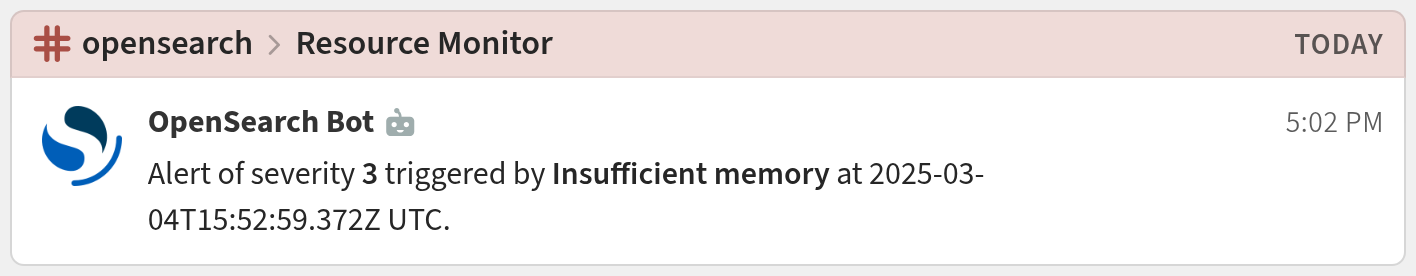
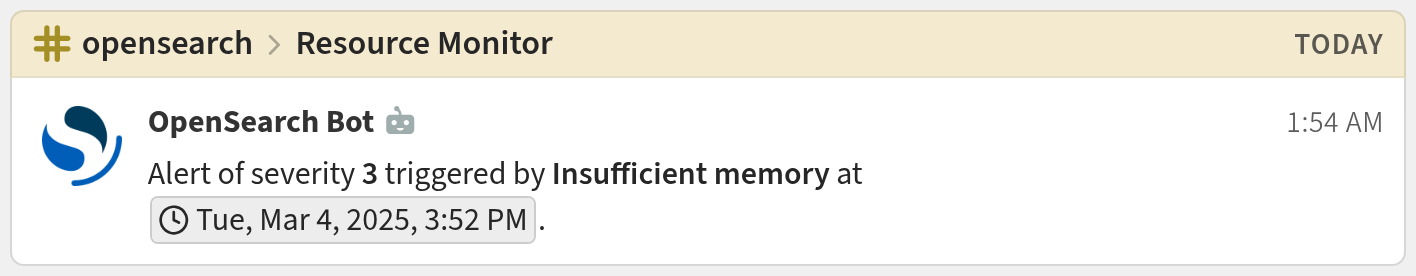
integrations/opensearch: Use global time.
Updated the fixtures as OpenSearch sends text payloads in the template
given by the user.
Updated the doc to suggest using global time in the example template.

diff --git a/zerver/webhooks/opensearch/tests.py b/zerver/webhooks/opensearch/tests.py
@@ -28,12 +28,12 @@ class OpensearchHookTests(WebhookTestCase):
             "Monitor Storage size monitor just entered alert status. Please investigate the issue.\n"
             "- Trigger: Storage size over 1TB\n"
             "- Severity: 1\n"
-            "- Period start: 2025-02-25T00:58:39.607Z UTC\n"
-            "- Period end: 2025-02-25T00:59:39.607Z UTC"
+            "- Period start: <time:2025-02-25T00:58:39.607Z>\n"
+            "- Period end: <time:2025-02-25T00:59:39.607Z>"
         )
         self.check_webhook("default_template", self.TOPIC_NAME, message, content_type="text/plain")
 
     def test_example_template_notification(self) -> None:
-        message = "Alert of severity **3** triggered by **Insufficient memory** at 2025-03-04T15:52:59.372Z UTC."
+        message = "Alert of severity **3** triggered by **Insufficient memory** at <time:2025-03-04T15:52:59.372Z>."
         expected_topic = "Resource Monitor"
         self.check_webhook("example_template", expected_topic, message, content_type="text/plain")

diff --git a/zerver/webhooks/opensearch/doc.md b/zerver/webhooks/opensearch/doc.md
@@ -54,7 +54,7 @@ Get OpenSearch alerts in Zulip!
     ```
     {% raw %}
     topic: {{ctx.monitor.name}}
-    Alert of severity **{{ctx.trigger.severity}}** triggered by **{{ctx.trigger.name}}** at {{ctx.periodStart}} UTC.
+    Alert of severity **{{ctx.trigger.severity}}** triggered by **{{ctx.trigger.name}}** at <time:{{ctx.periodStart}}>.
     {% endraw %}
     ```
 
